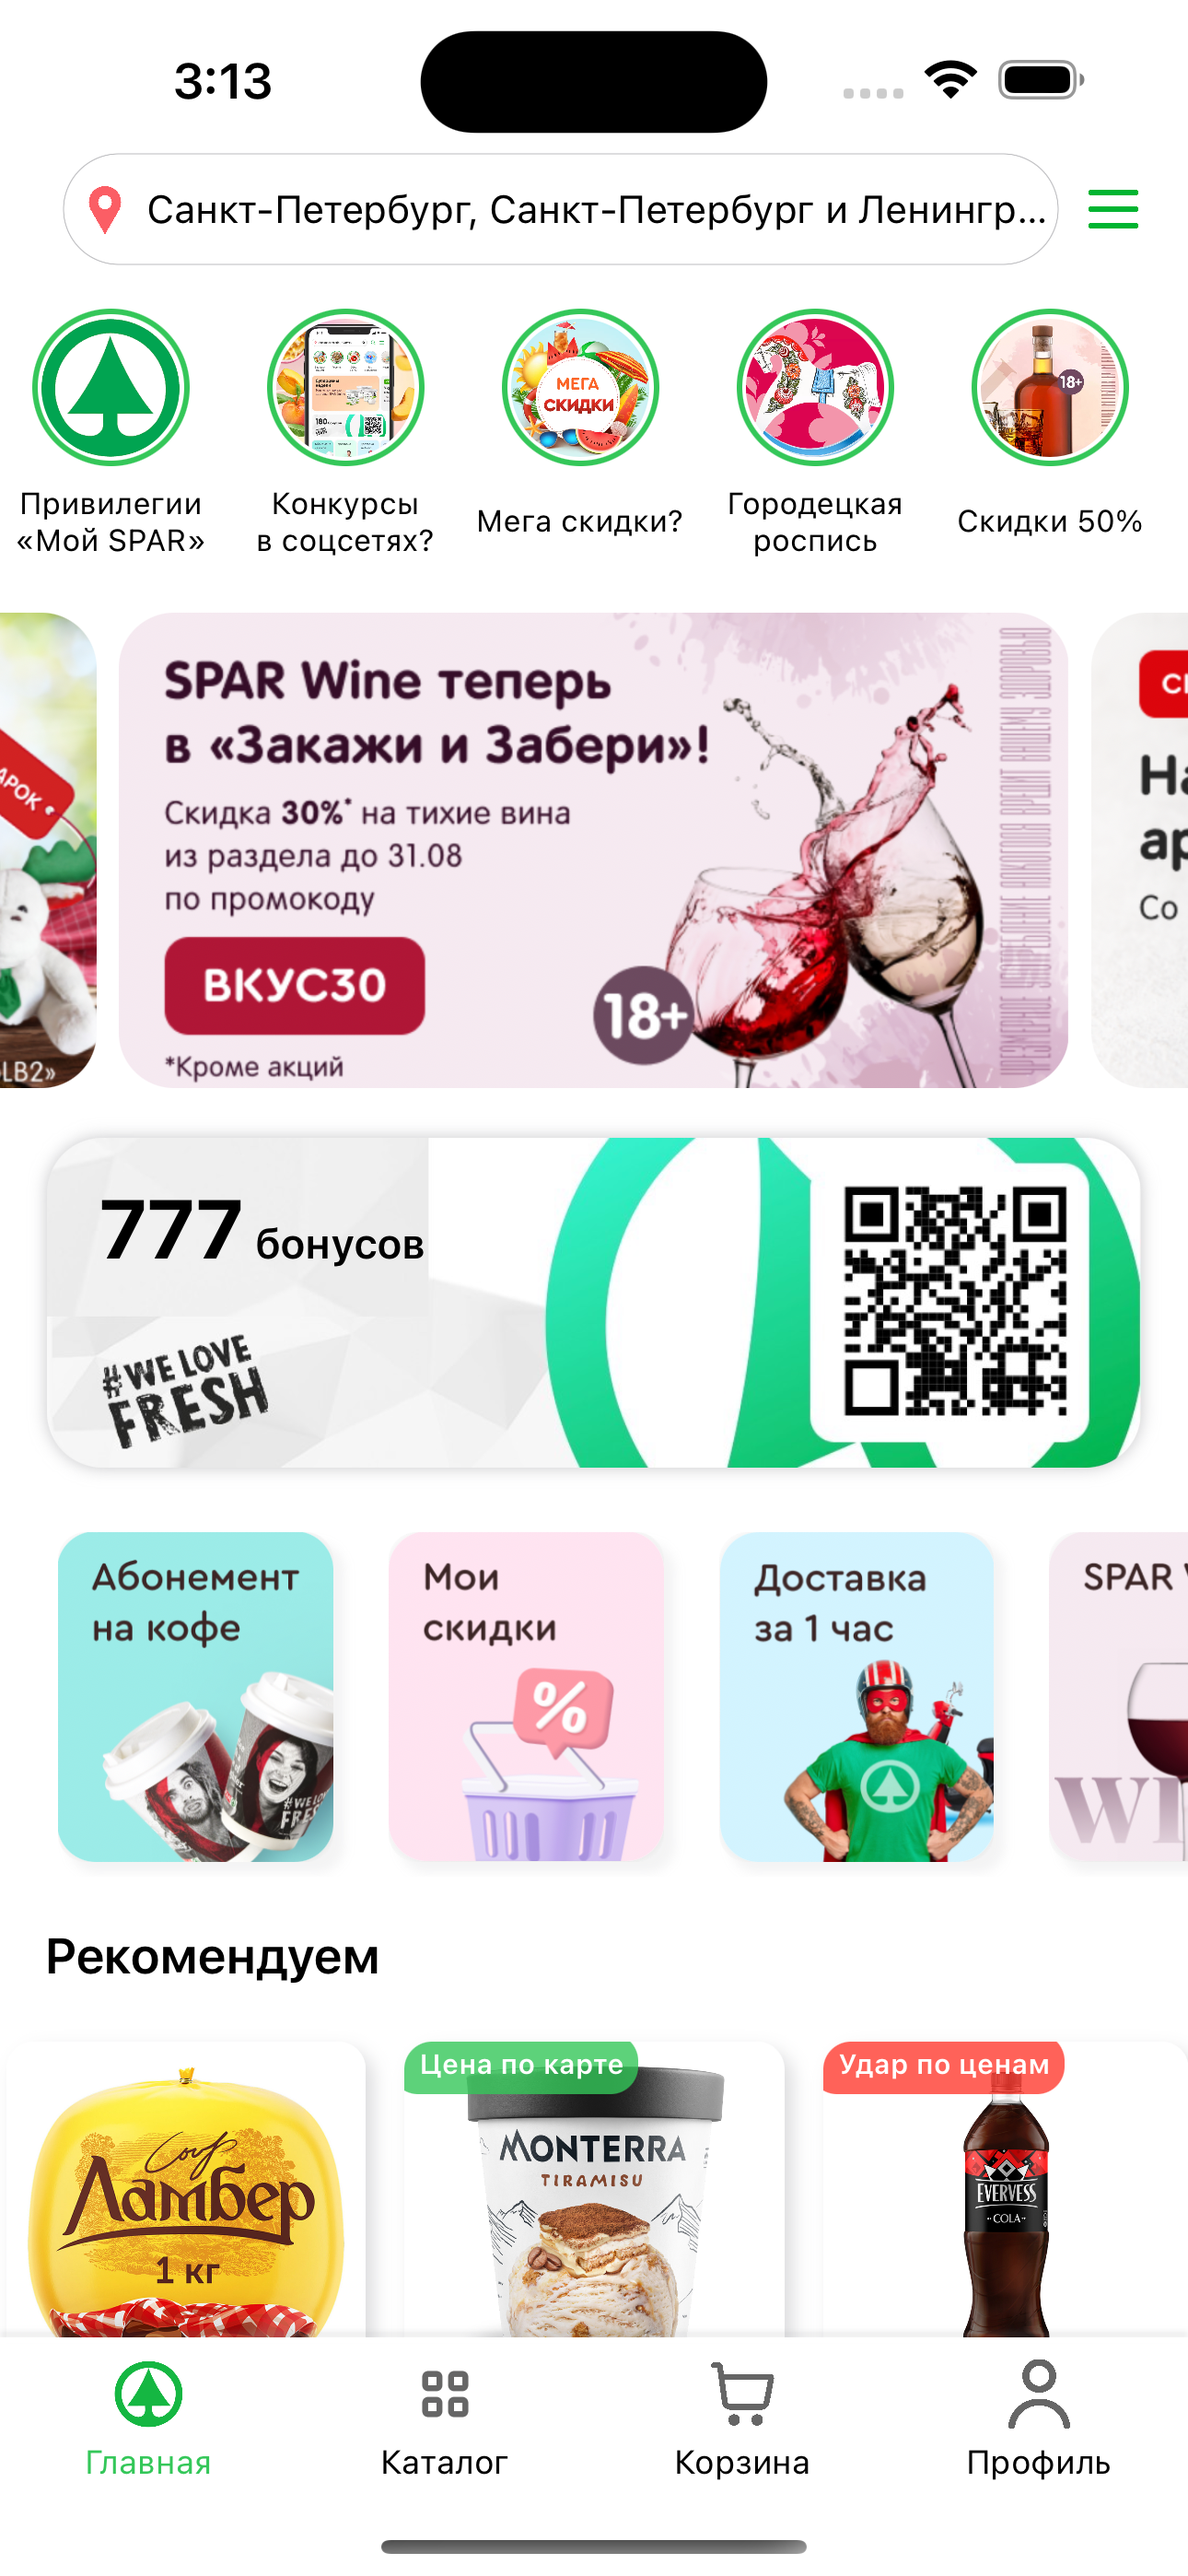
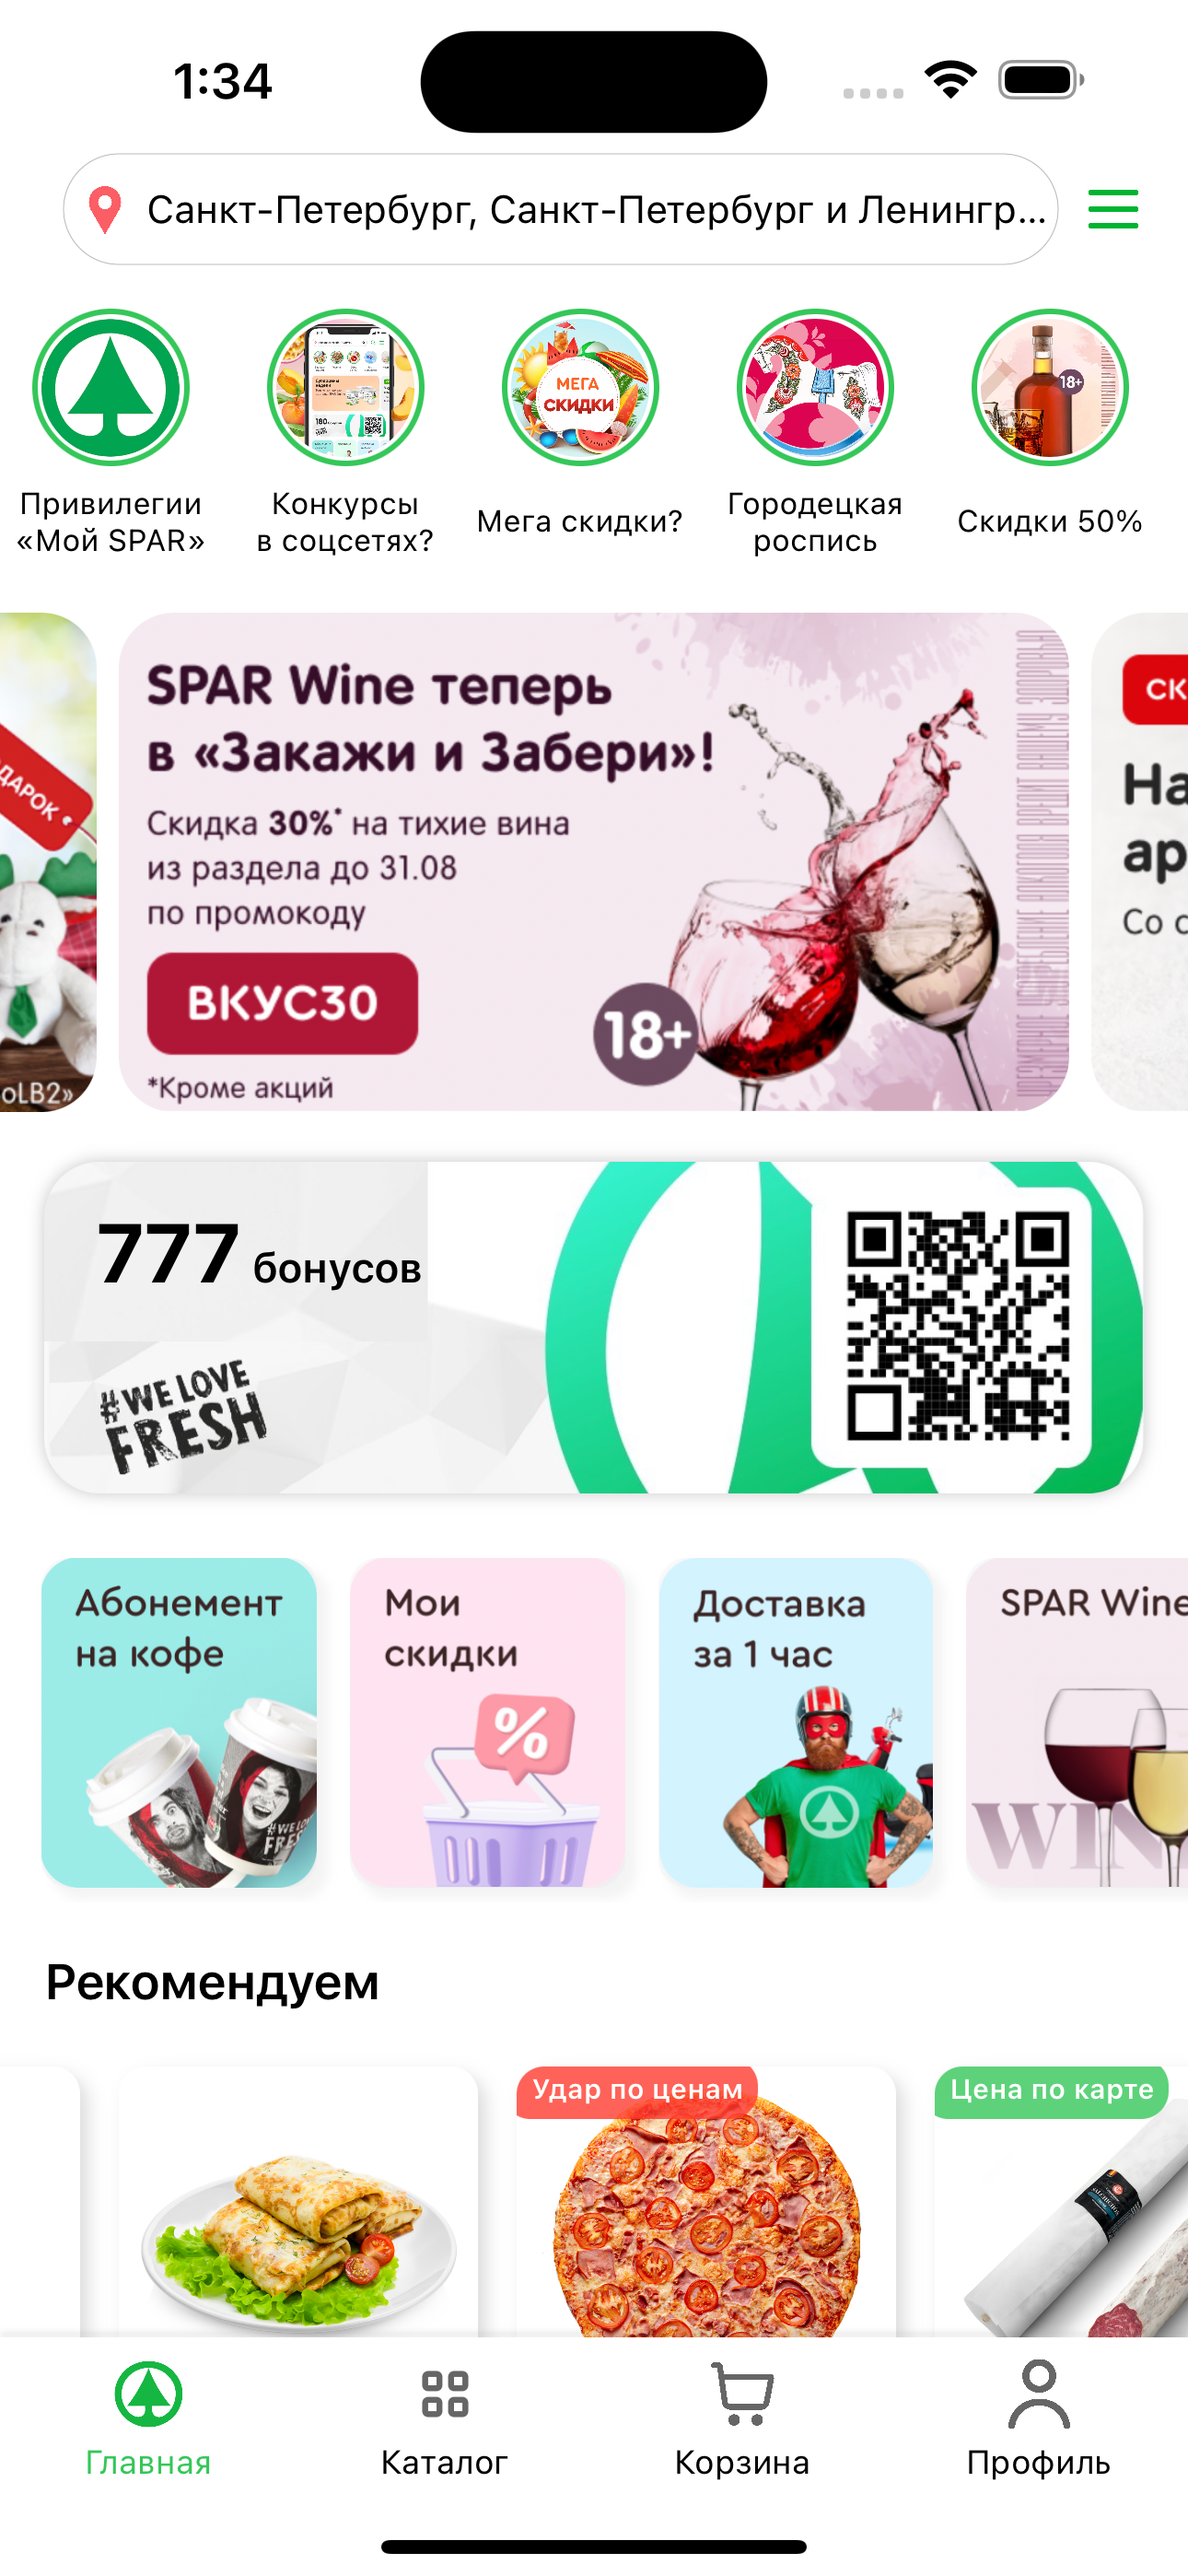
Refine padding for bonus image and benefits image

diff --git a/SwiftUIPetProject/Views/MainView/BonusBarcodeView.swift b/SwiftUIPetProject/Views/MainView/BonusBarcodeView.swift
@@ -11,7 +11,7 @@ fileprivate enum UIConstants {
     static let bgImageCornerRadius: CGFloat = 20
     static let bgImageShadowRadius: CGFloat = 3
     static let bgImageShadowopacity: CGFloat = 0.5
-    static let frameViewWidth: CGFloat = UIScreen.main.bounds.width - 32.0
+    static let frameViewWidth: CGFloat = UIScreen.main.bounds.width - 30
     static let frameViewHeight: CGFloat = frameViewWidth * 0.3
     static let imageSize: CGFloat = UIScreen.main.bounds.width * 0.2
     static let bonusCountFontSizeLarge: CGFloat = 30

diff --git a/SwiftUIPetProject/Views/ContentView.swift b/SwiftUIPetProject/Views/ContentView.swift
@@ -36,7 +36,7 @@ struct ContentView: View {
             }
             ZStack(alignment: .top) {
                 Rectangle()
-                    .frame(width: .infinity, height: UIConstants.tabBarDividerHeight)
+                    .frame(width: UIScreen.main.bounds.size.width, height: UIConstants.tabBarDividerHeight)
                     .foregroundColor(.white)
                     .opacity(0.2)
                     .shadow(color: .gray, radius: 1, x: 0, y: -2)

diff --git a/SwiftUIPetProject/Views/MainView/StoreBenefitsView.swift b/SwiftUIPetProject/Views/MainView/StoreBenefitsView.swift
@@ -19,8 +19,8 @@ struct StoreBenefitsView: View {
         static let shadowX: CGFloat = 4
         static let shadowY: CGFloat = 4
         static let imagePadding: CGFloat = 5
-        static let horizontalSpacing: CGFloat = 10
-        static let horizontalPadding: CGFloat = 16
+        static let horizontalSpacing: CGFloat = 2
+        static let horizontalPadding: CGFloat = 10
     }
     
     var body: some View {

diff --git a/SwiftUIPetProject/Views/MainView/PromoCollectionViewContent.swift b/SwiftUIPetProject/Views/MainView/PromoCollectionViewContent.swift
@@ -41,7 +41,7 @@ struct PromoCollectionViewCell: View {
     
     private enum UIConstants {
         static let imageWidth: CGFloat = UIScreen.main.bounds.width * 4/5
-        static let imageHeight: CGFloat = UIScreen.main.bounds.width * 2/5
+        static let imageHeight: CGFloat = UIScreen.main.bounds.width * 2.1/5
         static let cornerRadius: CGFloat = 20
     }
     
